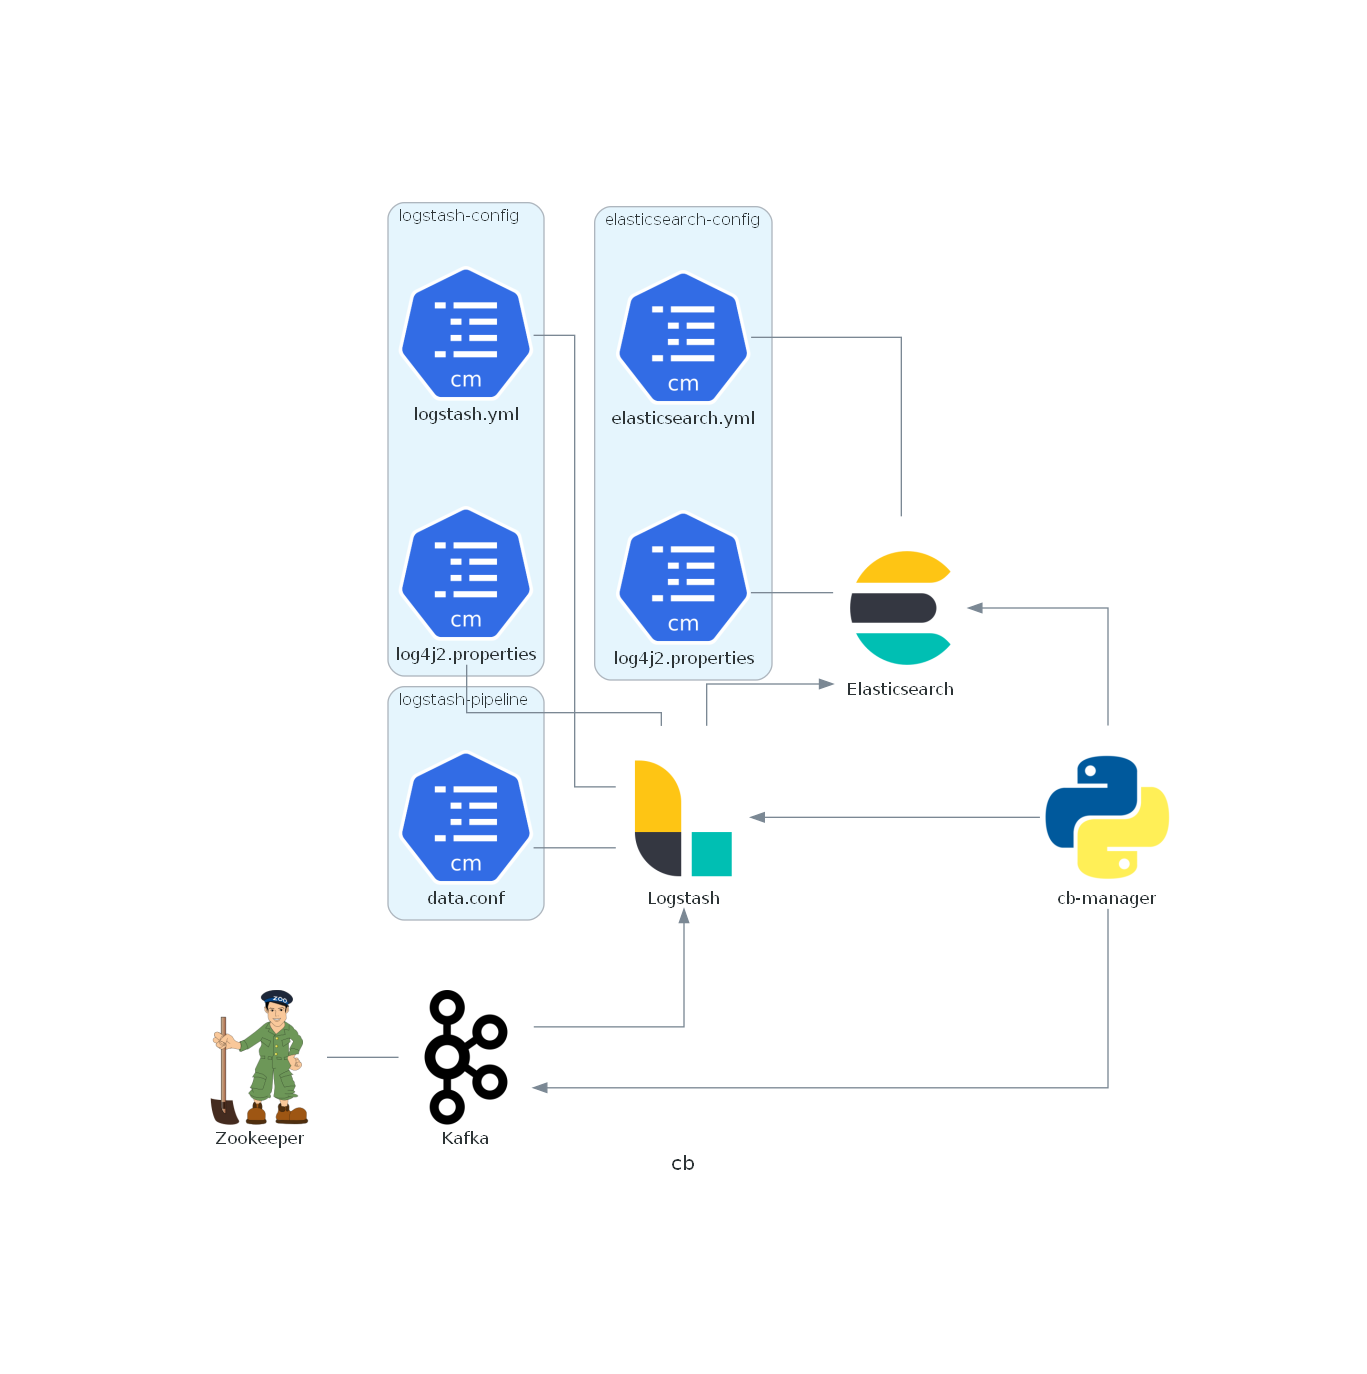
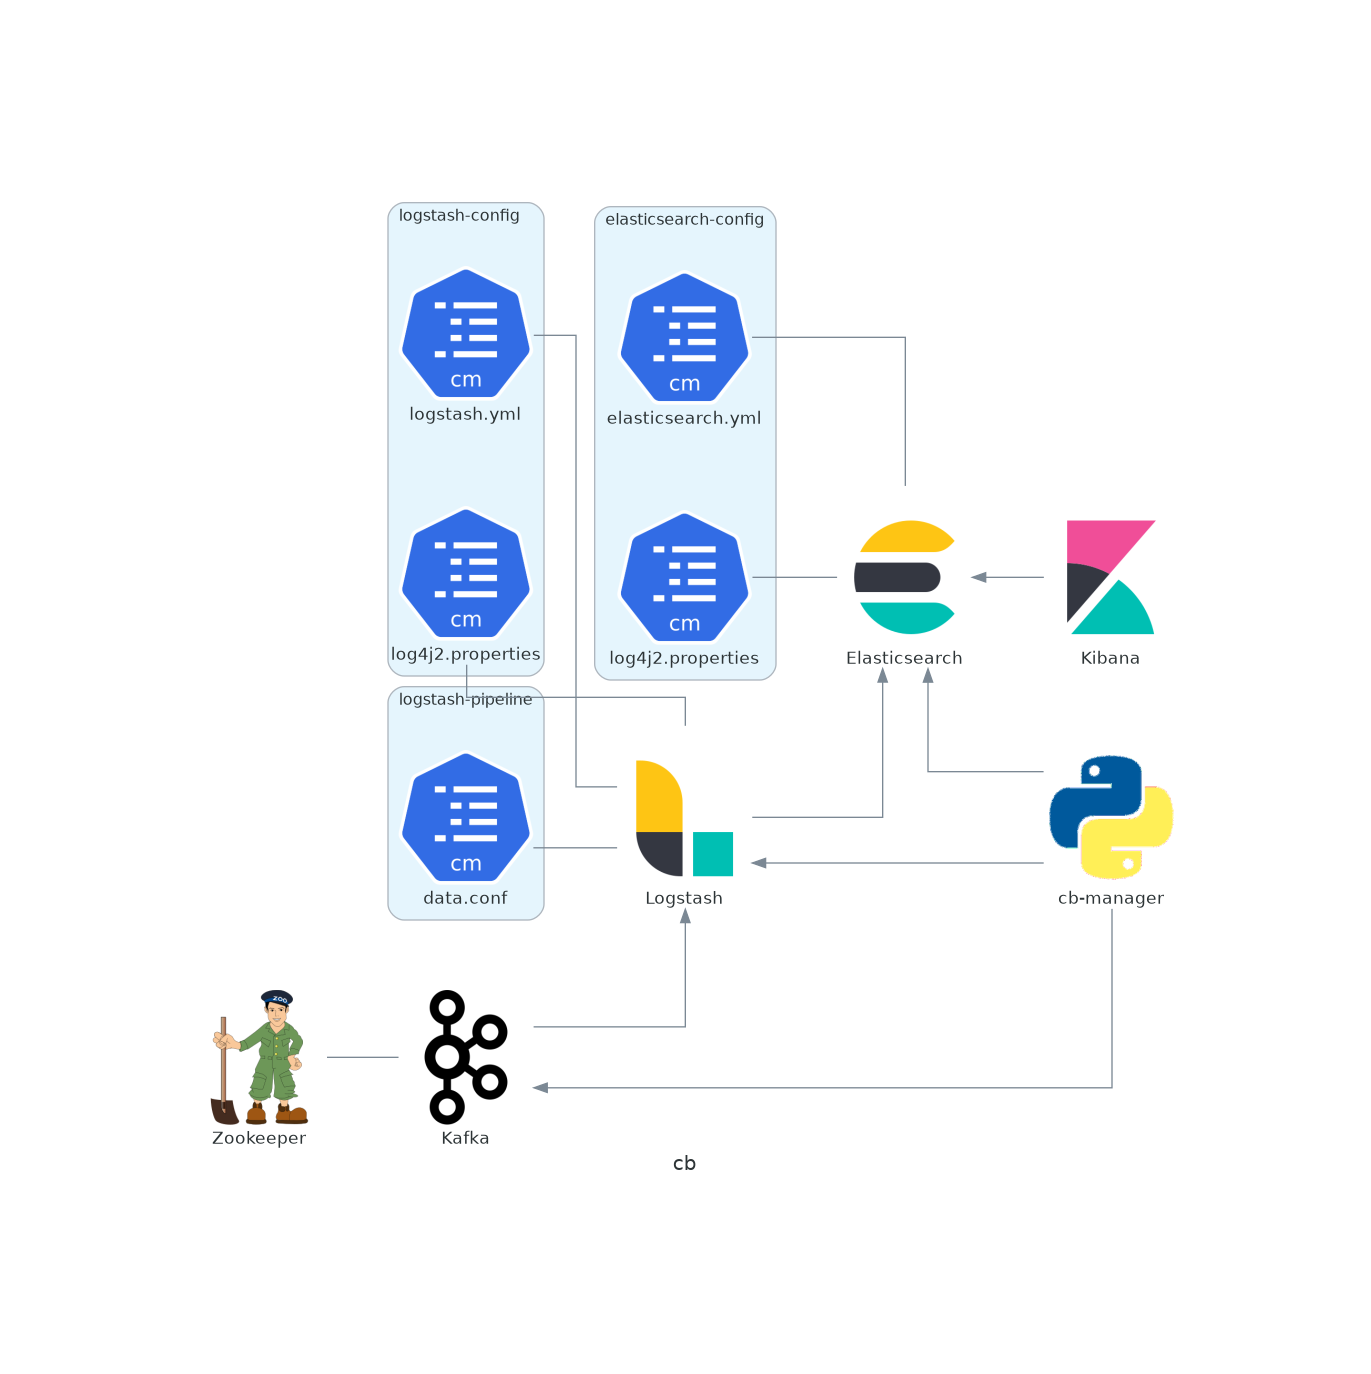
README k8s update

diff --git a/k8s/tasks/diagram.py b/k8s/tasks/diagram.py
@@ -5,7 +5,7 @@
 # cspell:ignore strg srvs
 
 from diagrams import Cluster, Diagram
-from diagrams.elastic.elasticsearch import Elasticsearch, Logstash
+from diagrams.elastic.elasticsearch import Elasticsearch, Kibana, Logstash
 from diagrams.k8s.compute import Deployment, Pod, ReplicaSet
 from diagrams.k8s.group import NS
 from diagrams.k8s.infra import Master, Node
@@ -27,7 +27,7 @@ def general(c):
 
         with Cluster('Services'):
             _srvs = [Service('elasticsearch-service'),
-                     Service('kafka-service'), Service('cb-manager-service')]
+                     Service('kafka-service'), Service('cb-manager-service'), Service['kibana']]
 
         with Cluster('Storage'):
             _strg = PVC('elasticsearch-pv-volume') >> PV('elasticsearch-pv')
@@ -42,6 +42,7 @@ def cb(c):
         _zk = Zookeeper('Zookeeper')
         _logstash = Logstash('Logstash')
         _elasticsearch = Elasticsearch('Elasticsearch')
+        _kibana = Kibana('Kibana')
         _cb_man = Python('cb-manager')
 
         with Cluster('elasticsearch-config'):
@@ -58,6 +59,7 @@ def cb(c):
         _ = _logstash_pipe - _logstash
 
         _zk - _kafka >> _logstash >> _elasticsearch << _cb_man
+        _elasticsearch << _kibana
         _logstash << _cb_man >> _kafka
 
 

diff --git a/k8s/README.md b/k8s/README.md
@@ -2,6 +2,11 @@
 
 This directory contains the manifest files used by Flux () for the CI / CD in a Kubernetes cluster installation.
 
+The ASTRID Kubernetes infrastructure is composed of 3 Node
+
+![ASTRID Kubernetes infrastructure](tasks/infrastructure.png)
+
+
 These manifest files allows the configuration of the following ASTRID components:
 
 ![General configurations](tasks/general.png)
@@ -15,7 +20,7 @@ These manifest files allows the configuration of the following ASTRID components
     - Kafka
     - Zookeeper
 
-![Conext-Broker POD](tasks/cb.png)
+![Context-Broker POD](tasks/cb.png)
 
 - Service [backend/service.yaml](backend/service.yaml)
     - CB-Manager
@@ -38,7 +43,7 @@ These manifest files allows the configuration of the following ASTRID components
 
 Alternatively, it is possible to apply this configuration without Flux executing the following command (works only with Linux):
 
-```bash
+```console
 ,/run.sh dev
 ```
 Actually the ``dev`` mode is the only one supported.
